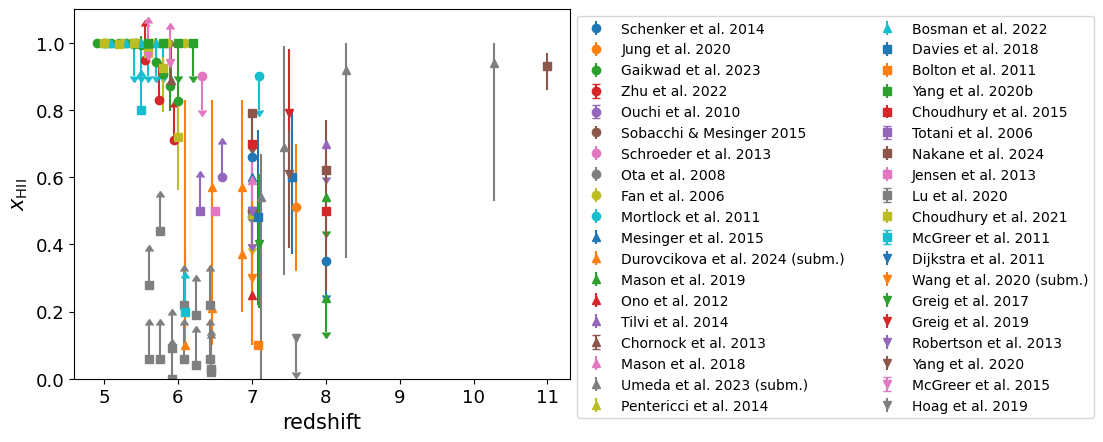
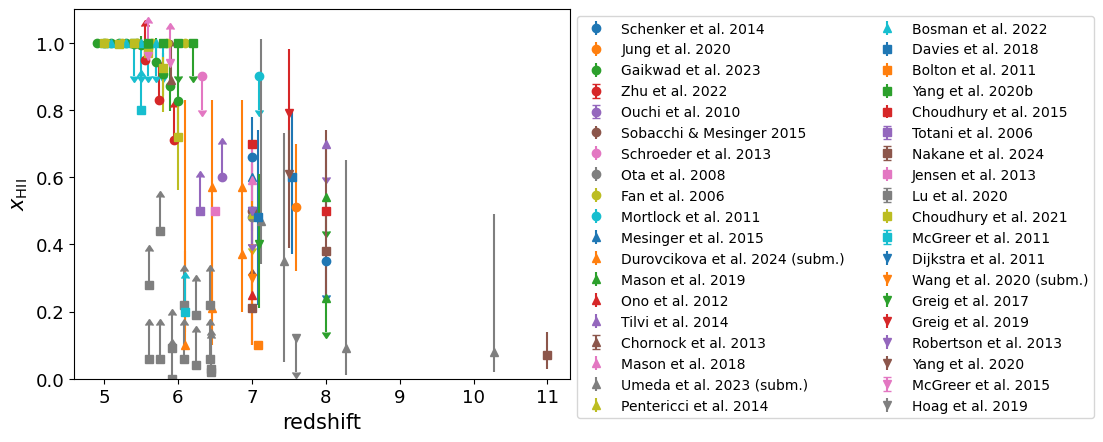
update data and docs

diff --git a/corecon/data/HII_fraction/Nakane_et_al_2024.py b/corecon/data/HII_fraction/Nakane_et_al_2024.py
@@ -22,12 +22,12 @@ err_left               = [0., 0., 2.]
 
 err_right              = [0., 0., 2.]
 
-values      = [0.79, 0.62, 0.93]
+values      = [0.21, 0.38, 0.07]
 
-err_down    = [None, 0.36,0.07]
+err_down    = [None, 0.15,0.04]
 
-err_up      = [None, 0.15,0.04]
+err_up      = [None, 0.36,0.07]
 
-upper_lim     = [True, False, False]
+upper_lim     = False
 
-lower_lim     = False
+lower_lim     = [True, False, False]

diff --git a/corecon/data/HII_fraction/Umeda_et_al_2023.py b/corecon/data/HII_fraction/Umeda_et_al_2023.py
@@ -22,11 +22,11 @@ err_left               = [0.75, 0.243, 0.446, 1.407]
 
 err_right              = [0.059, 0.341, 0.403, 1.12]
 
-values      = [0.54, 0.69, 0.92, 0.94]
+values        = [0.47, 0.35, 0.09, 0.08]
 
-err_down    = [0.54, 0.38, 0.56, 0.41]
+err_down      = [0.13,0.30,0.08,0.06]
 
-err_up      = [0.13,0.30,0.08,0.06]
+err_up        = [0.54, 0.38, 0.56, 0.41]
 
 upper_lim     = False
 

diff --git a/corecon/data/mean_free_path/Worseck_et_al_2014.py b/corecon/data/mean_free_path/Worseck_et_al_2014.py
@@ -6,7 +6,7 @@ url                    = "https://academic.oup.com/mnras/article/445/2/1745/1402
 
 description            = \
 """
-Measurement obtained from 163 stacked spectra at z>4.4
+Measurement obtained from 163 stacked spectra at z>4.4. NOTE: in Mpc/h_70
 """
 
 data_structure         = "grid" #grid or points
